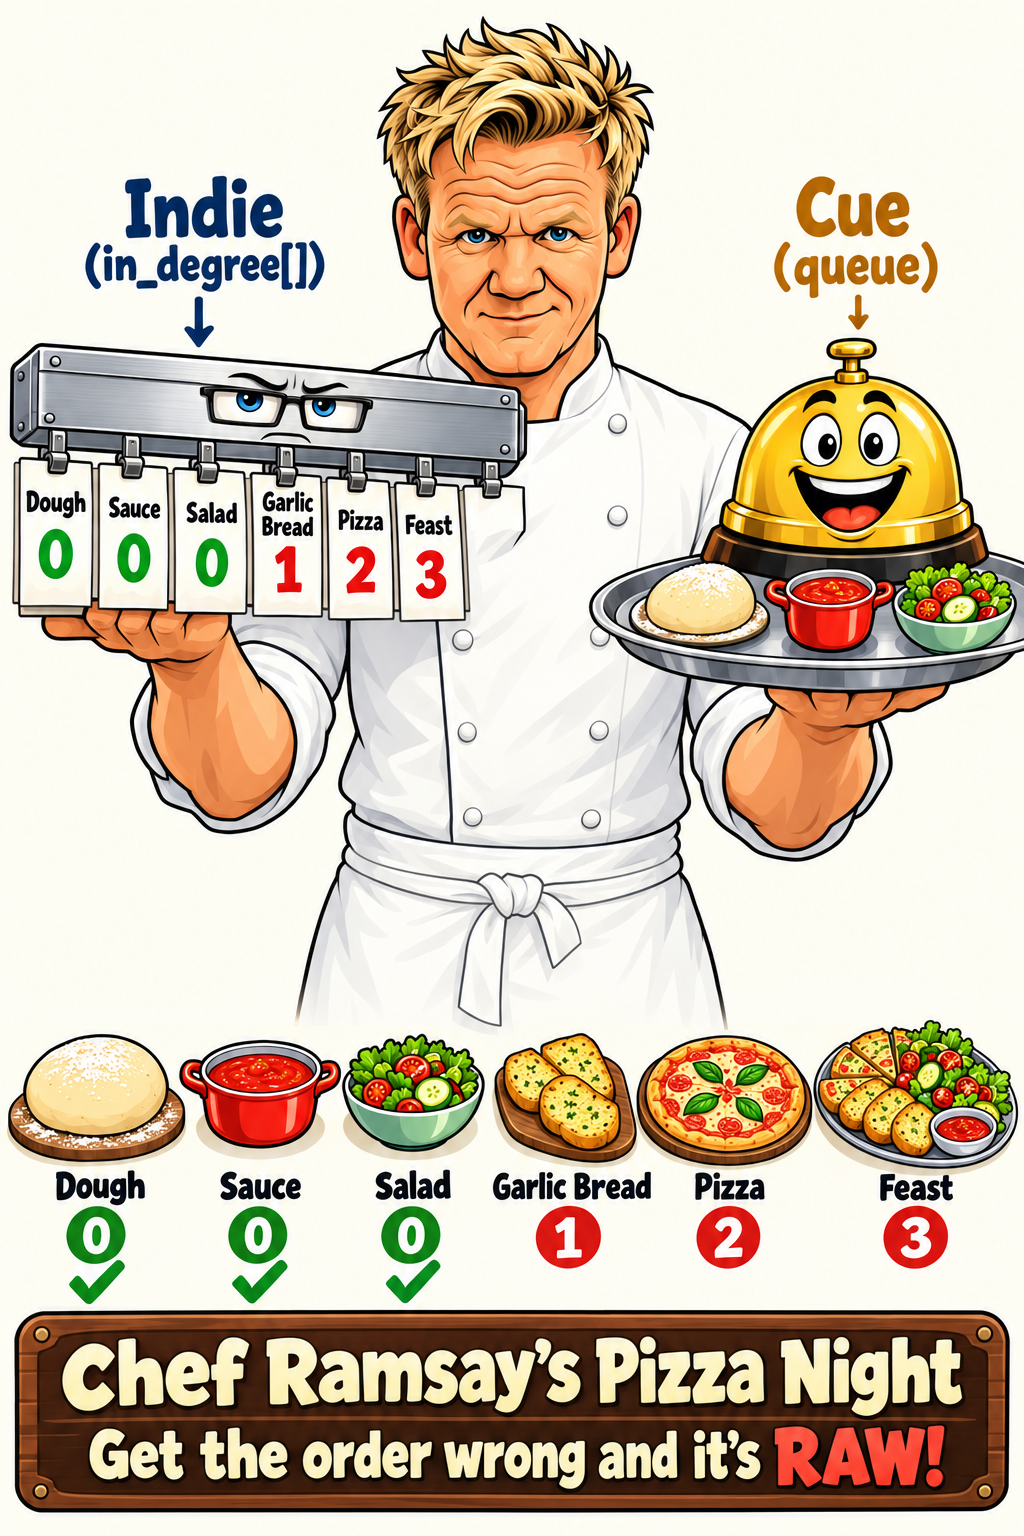
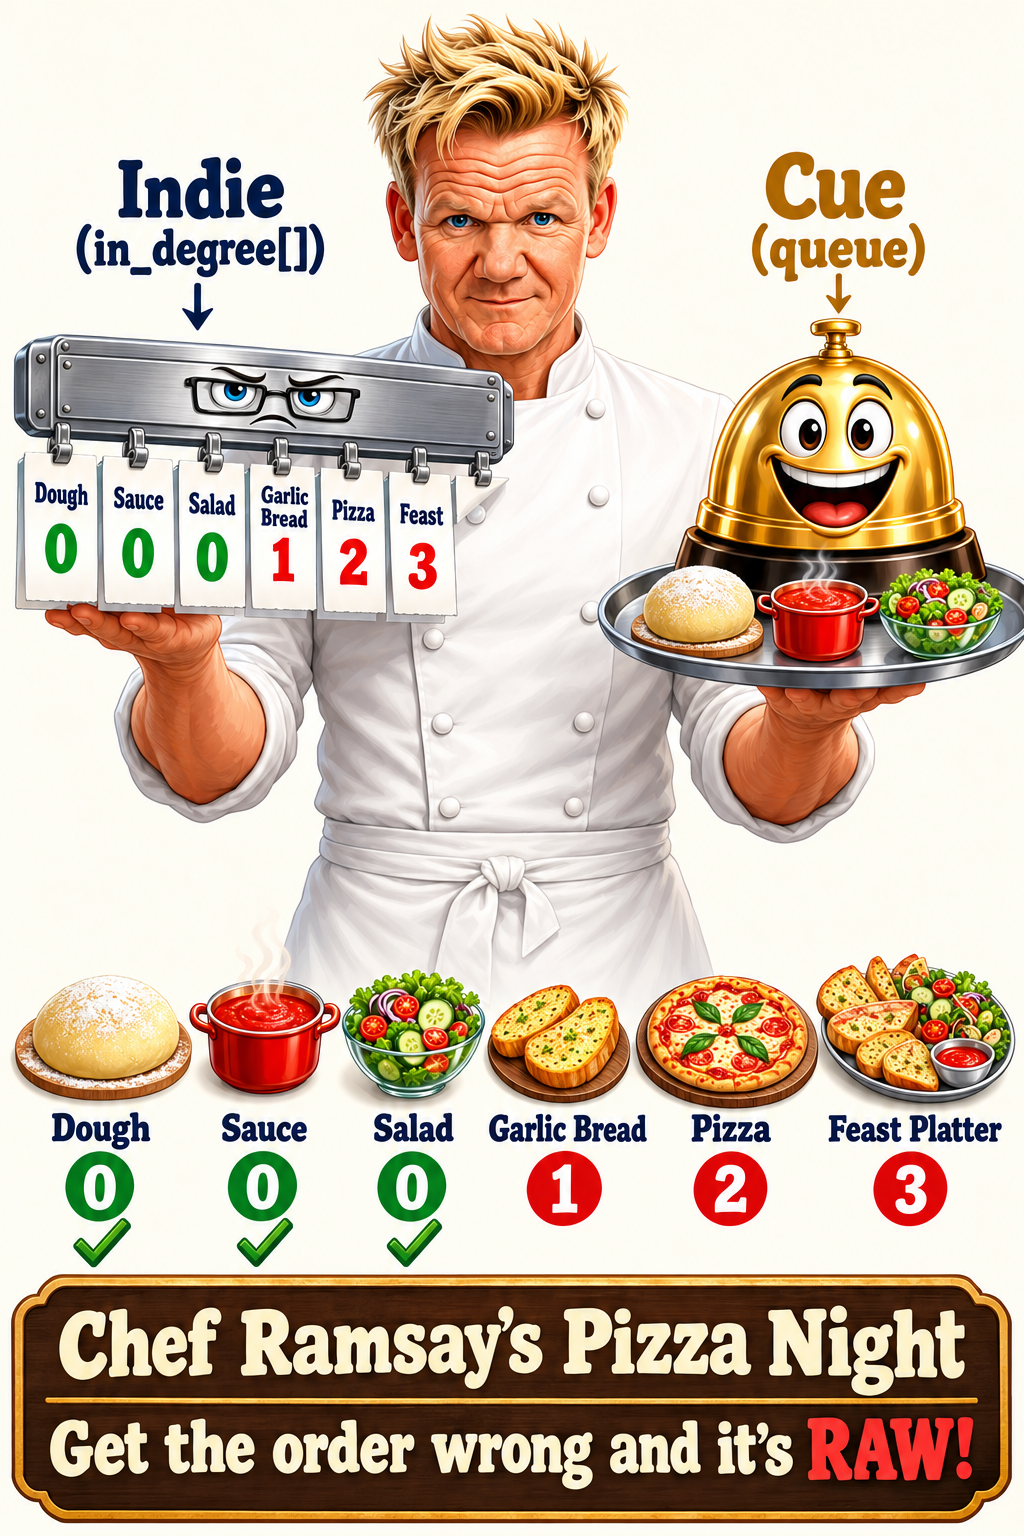
Graphs: sharper Pizza Night images, and cut text the images already cover
Regenerate all four topological sort images in one high-quality pass
each, following the new reference layouts. The section is now the four
images plus Common Mistakes.

diff --git a/graphs.html b/graphs.html
@@ -532,104 +532,9 @@ visited.add(node)  # TOO LATE!
 <div style="color:var(--muted);font-size:.88em;margin-bottom:16px">Topological Sort: Indie the ticket rail = in_degree[], Cue the service bell = queue</div>
 
 <img src="graphs/images/topo_cast.png" alt="Meet the cast: Gordon Ramsay holding Indie the ticket rail (in_degree) and Cue the service bell (queue), with the six dishes and their counts" class="scene-img">
-<img src="graphs/images/topo_kahn_steps.png" alt="Ramsay's Pizza Night: count what each dish waits on, queue the zeros, pop from the left, decrement neighbors, and new zeros join the back" class="scene-img">
-
-<div style="background:rgba(245,158,11,.08);border:2px solid var(--amber);border-radius:10px;padding:18px;margin-bottom:16px">
-<div style="color:var(--amber);font-weight:700;font-size:1.1em;margin-bottom:12px">THE RITUAL</div>
-<div style="font-size:.95em;color:var(--text);line-height:1.9">
-<strong style="color:var(--amber);font-size:1.05em">&#10102;</strong> Ramsay writes on <strong>Indie the ticket rail</strong> how many dishes each dish is waiting on (in-degree).<br>
-<strong style="color:var(--amber);font-size:1.05em">&#10103;</strong> Dishes waiting on <strong>nothing</strong> line up at <strong>Cue the service bell</strong>. Front on the left, back on the right.<br>
-<strong style="color:var(--amber);font-size:1.05em">&#10104;</strong> <strong>POP from the left.</strong> Cook that dish and write it on the order pad.<br>
-<strong style="color:var(--amber);font-size:1.05em">&#10105;</strong> Every dish that was waiting on it: <strong>its count drops by 1</strong>.<br>
-<strong style="color:var(--amber);font-size:1.05em">&#10106;</strong> Count hits <strong>zero</strong>? It <strong>joins the back</strong> of the line. Not zero yet? It keeps waiting outside.<br>
-<strong style="color:var(--amber);font-size:1.05em">&#10107;</strong> Line empty? If <strong>every dish got cooked</strong>, the order pad is your answer. If some <strong>never got cooked</strong>, the menu is impossible (cycle!).
-</div>
-<div style="margin-top:10px;padding:8px 12px;background:rgba(0,0,0,.2);border-radius:6px;font-size:.88em;color:var(--muted)">
-<strong style="color:var(--amber)">It's just BFS with one extra rule.</strong> In BFS, anyone new joins the line. Here, a dish joins the line only when its count hits 0.
-</div>
-</div>
-
-<div style="background:rgba(245,158,11,.12);border-radius:8px;padding:14px;margin-bottom:16px">
-<div style="color:var(--amber);font-weight:700;margin-bottom:8px">The Whole Night, step by step</div>
-<div style="font-size:.88em;color:var(--muted);margin-bottom:8px">Menu: Dough &rarr; Garlic Bread, Dough &rarr; Pizza, Sauce &rarr; Pizza, and Garlic Bread, Pizza, Salad &rarr; Feast Platter.</div>
-<table style="font-size:.85em">
-<tr><th>Pop</th><th>Counts that drop</th><th>Joins the back</th><th>Line after (front &rarr; back)</th></tr>
-<tr><td>start</td><td>Dough 0, Sauce 0, Salad 0, Garlic Bread 1, Pizza 2, Feast 3</td><td>Dough, Sauce, Salad</td><td>Dough, Sauce, Salad</td></tr>
-<tr><td>Dough</td><td>Garlic Bread 1&rarr;0, Pizza 2&rarr;1</td><td>Garlic Bread</td><td>Sauce, Salad, Garlic Bread</td></tr>
-<tr><td>Sauce</td><td>Pizza 1&rarr;0</td><td>Pizza</td><td>Salad, Garlic Bread, Pizza</td></tr>
-<tr><td>Salad</td><td>Feast 3&rarr;2</td><td>none</td><td>Garlic Bread, Pizza</td></tr>
-<tr><td>Garlic Bread</td><td>Feast 2&rarr;1</td><td>none</td><td>Pizza</td></tr>
-<tr><td>Pizza</td><td>Feast 1&rarr;0</td><td>Feast Platter</td><td>Feast Platter</td></tr>
-<tr><td>Feast Platter</td><td>none</td><td>none</td><td>empty</td></tr>
-</table>
-<div style="font-size:.9em;color:var(--text);margin-top:6px"><strong>Order pad:</strong> Dough, Sauce, Salad, Garlic Bread, Pizza, Feast Platter. All 6 cooked, so it's a valid order.</div>
-</div>
-
-<img src="graphs/images/topo_python_code.png" alt="Topological sort Python code, with each block of code matched to one kitchen step" class="scene-img">
-
-<div style="color:var(--gold2);font-size:.8em;letter-spacing:.1em;text-transform:uppercase;margin-bottom:8px">RITUAL &rarr; CODE</div>
-<div style="display:grid;gap:0;border-radius:8px;overflow:hidden;border:1px solid #ffffff15">
-<div class="ritual-step">
-<div style="background:#d9770625;font-weight:700;color:var(--amber);display:flex;align-items:center;justify-content:center">&#10102;</div>
-<div style="background:#d9770612;font-size:.9em"><strong>Fill Indie's ticket rail.</strong> Count what each dish waits on.</div>
-<div style="background:#d9770608;font-family:'Fira Code',monospace;font-size:.82em;display:flex;align-items:center"><code>graph[u].append(v); in_deg[v] += 1</code></div>
-</div>
-<div class="ritual-step">
-<div style="background:#d9770625;font-weight:700;color:var(--amber);display:flex;align-items:center;justify-content:center">&#10103;</div>
-<div style="background:#d9770612;font-size:.9em"><strong>Zeros line up at Cue.</strong></div>
-<div style="background:#d9770608;font-family:'Fira Code',monospace;font-size:.82em;display:flex;align-items:center"><code>q = deque(i for i in range(n) if in_deg[i] == 0)</code></div>
-</div>
-<div class="ritual-step">
-<div style="background:#d9770625;font-weight:700;color:var(--amber);display:flex;align-items:center;justify-content:center">&#10104;</div>
-<div style="background:#d9770612;font-size:.9em"><strong>POP from the left.</strong> Write it on the pad.</div>
-<div style="background:#d9770608;font-family:'Fira Code',monospace;font-size:.82em;display:flex;align-items:center"><code>node = q.popleft(); order.append(node)</code></div>
-</div>
-<div class="ritual-step">
-<div style="background:#d9770625;font-weight:700;color:var(--amber);display:flex;align-items:center;justify-content:center">&#10105;</div>
-<div style="background:#d9770612;font-size:.9em"><strong>Drop the waiting counts.</strong></div>
-<div style="background:#d9770608;font-family:'Fira Code',monospace;font-size:.82em;display:flex;align-items:center"><code>for nei in graph[node]: in_deg[nei] -= 1</code></div>
-</div>
-<div class="ritual-step">
-<div style="background:#d9770625;font-weight:700;color:var(--amber);display:flex;align-items:center;justify-content:center">&#10106;</div>
-<div style="background:#d9770612;font-size:.9em"><strong>Hit zero? Join the back.</strong></div>
-<div style="background:#d9770608;font-family:'Fira Code',monospace;font-size:.82em;display:flex;align-items:center"><code>if in_deg[nei] == 0: q.append(nei)</code></div>
-</div>
-<div class="ritual-step">
-<div style="background:#d9770625;font-weight:700;color:var(--amber);display:flex;align-items:center;justify-content:center">&#10107;</div>
-<div style="background:#d9770612;font-size:.9em"><strong>Everything cooked?</strong> Valid. Some left? Cycle!</div>
-<div style="background:#d9770608;font-family:'Fira Code',monospace;font-size:.82em;display:flex;align-items:center"><code>return order if len(order) == n else []</code></div>
-</div>
-</div>
-
-<pre><code>from collections import deque
-
-def topo_sort(n, edges):
-    graph = [[] for _ in range(n)]
-    in_deg = [0] * n
-    for u, v in edges:
-        graph[u].append(v)       <span style="color:#6b9955"># u comes before v</span>
-        in_deg[v] += 1           <span style="color:#6b9955"># v waits on one more dish</span>
-
-    q = deque(i for i in range(n) if in_deg[i] == 0)  <span style="color:#6b9955"># zeros line up</span>
-    order = []                   <span style="color:#6b9955"># the order pad</span>
-    while q:
-        node = q.popleft()       <span style="color:#6b9955"># POP from the left</span>
-        order.append(node)       <span style="color:#6b9955"># cooked!</span>
-        for nei in graph[node]:
-            in_deg[nei] -= 1     <span style="color:#6b9955"># one less thing to wait on</span>
-            if in_deg[nei] == 0:
-                q.append(nei)    <span style="color:#6b9955"># ready, join the back</span>
-
-    return order if len(order) == n else []  <span style="color:#6b9955"># cycle = []</span></code></pre>
-
-<img src="graphs/images/topo_cycle.png" alt="Cycle detection: Pizza and Garlic Bread wait on each other, the queue goes empty with dishes still waiting, so there is a cycle" class="scene-img">
-
-<div style="background:rgba(239,68,68,.08);border:1px solid var(--red);border-radius:8px;padding:14px;margin-bottom:16px">
-<div style="color:var(--red);font-weight:700;margin-bottom:6px">The Impossible Menu: how cycles show up</div>
-<div style="font-size:.9em;color:var(--text)">
-Say Pizza waits on Garlic Bread, and Garlic Bread waits on Pizza. Neither count can ever reach 0, so <strong>neither ever joins the line</strong>. The line goes empty while they're still waiting. That's the whole check: <strong>line empty + dishes left = cycle</strong>. In code, <code>len(order) &lt; n</code>.
-</div>
-</div>
+<img src="graphs/images/topo_kahn_steps.png" alt="Kahn's algorithm in six steps: count prerequisites, queue the zeros, pop one, decrement its neighbors, zeros join the queue, repeat" class="scene-img">
+<img src="graphs/images/topo_python_code.png" alt="Kahn's algorithm Python code, with each block of code matched to a kitchen step" class="scene-img">
+<img src="graphs/images/topo_cycle.png" alt="Cycle detection: three dishes wait on each other in a loop, the queue goes empty with nodes left, so there is a cycle" class="scene-img">
 
 <div style="background:rgba(245,158,11,.06);border:1px solid #b45309;border-radius:10px;padding:18px;margin-top:12px">
 <div style="color:var(--amber);font-weight:700;font-size:1.05em;margin-bottom:12px">Common Mistakes</div>
